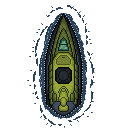
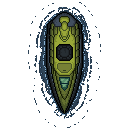
feature(SpriteAnimation.java) init sprite animation

diff --git a/src/main/java/io/github/ololx/sleepwalker/SquarePatrolUnit.java b/src/main/java/io/github/ololx/sleepwalker/SquarePatrolUnit.java
@@ -3,6 +3,8 @@ package io.github.ololx.sleepwalker;
 import io.github.ololx.mooncake.math.VectorXYD;
 
 import java.awt.*;
+import java.util.List;
+import java.util.Map;
 import java.util.logging.Logger;
 
 /**
@@ -19,15 +21,52 @@ public class SquarePatrolUnit implements GameObject {
 
     private VectorXYD direction;
 
-    private final VectorXYD velocity = new VectorXYD(1, 1);
+    private final VectorXYD velocity = new VectorXYD(0.5, 0.5);
 
     private final double rotation = Math.toRadians(-90);
 
-    int frameLimit = 30;
+    int frameLimit = 200;
 
     int currentFrames = 0;
 
     int state = 0;
+
+    List<SpriteAnimation> spriteImages = List.of(
+            new SpriteAnimation(
+                    Map.of(
+                            new SpriteImage("Boat3_water_frame1.png", 0.25, 0.25), 3,
+                            new SpriteImage("Boat3_water_frame2.png", 0.25, 0.25), 3,
+                            new SpriteImage("Boat3_water_frame3.png", 0.25, 0.25), 3,
+                            new SpriteImage("Boat3_water_frame4.png", 0.25, 0.25), 3
+                    )
+            ),
+            new SpriteAnimation(
+                    Map.of(
+                            new SpriteImage("Boat3_water_frame1 2.png", 0.25, 0.25), 3,
+                            new SpriteImage("Boat3_water_frame2 2.png", 0.25, 0.25), 3,
+                            new SpriteImage("Boat3_water_frame3 2.png", 0.25, 0.25), 3,
+                            new SpriteImage("Boat3_water_frame4 2.png", 0.25, 0.25), 3
+                    )
+            ),
+            new SpriteAnimation(
+                    Map.of(
+                            new SpriteImage("Boat3_water_frame1 3.png", 0.25, 0.25), 3,
+                            new SpriteImage("Boat3_water_frame2 3.png", 0.25, 0.25), 3,
+                            new SpriteImage("Boat3_water_frame3 3.png", 0.25, 0.25), 3,
+                            new SpriteImage("Boat3_water_frame4 3.png", 0.25, 0.25), 3
+                    )
+            ),
+            new SpriteAnimation(
+                    Map.of(
+                            new SpriteImage("Boat3_water_frame1 4.png", 0.25, 0.25), 3,
+                            new SpriteImage("Boat3_water_frame2 4.png", 0.25, 0.25), 3,
+                            new SpriteImage("Boat3_water_frame3 4.png", 0.25, 0.25), 3,
+                            new SpriteImage("Boat3_water_frame4 4.png", 0.25, 0.25), 3
+                    )
+            )
+    );
+
+    SpriteAnimation spriteImage = spriteImages.get(0);
 
     public SquarePatrolUnit(double x, double y) {
         this.position = new VectorXYD(x, y);
@@ -38,8 +77,12 @@ public class SquarePatrolUnit implements GameObject {
     public void update() {
         if (++currentFrames >= frameLimit) {
             currentFrames = 0;
-            state++;
 
+            if (++state >= 4) {
+                state = 0;
+            }
+
+            this.spriteImage = this.spriteImages.get(state);
             this.direction = this.direction.rotate(this.rotation);
         }
 
@@ -50,17 +93,19 @@ public class SquarePatrolUnit implements GameObject {
 
     @Override
     public void render(Scene scene) {
-        for (int i = 0; i < Scene.SCENE_WIDTH; i++) {
-            for (int j = 0; j < Scene.SCENE_HEIGHT; j++) {
-                if (i < this.position.getX() - 2 || i > this.position.getX() + 2) {
+        SpriteImage spriteImage = this.spriteImage.getAndNext();
+
+        for (int x = 0; x < spriteImage.getWidth(); x++) {
+            for (int y = 0; y < spriteImage.getHeight(); y++) {
+                if (spriteImage.getEmptyPixel() == spriteImage.getPixel(x, y)) {
                     continue;
                 }
 
-                if (j < this.position.getY() - 2 || j > this.position.getY() + 2) {
-                    continue;
-                }
-
-                scene.pixels[i + j * Scene.SCENE_WIDTH] = Color.GREEN.getRGB();
+                scene.setPixel(
+                        (int) (x + this.position.getX() - spriteImage.getWidth() / 2),
+                        (int) (y + this.position.getY() - spriteImage.getHeight() / 2),
+                        spriteImage.getPixel(x, y)
+                );
             }
         }
     }

diff --git a/src/main/java/io/github/ololx/sleepwalker/UpDownPatrolUnit.java b/src/main/java/io/github/ololx/sleepwalker/UpDownPatrolUnit.java
@@ -6,6 +6,7 @@ import java.awt.*;
 import java.awt.image.BufferStrategy;
 import java.util.ArrayList;
 import java.util.List;
+import java.util.Map;
 import java.util.logging.Logger;
 
 /**
@@ -22,22 +23,36 @@ public class UpDownPatrolUnit implements GameObject {
 
     private VectorXYD direction;
 
-    private final VectorXYD velocity = new VectorXYD(1, 1);
+    private final VectorXYD velocity = new VectorXYD(1, 2);
 
     private final double rotation = Math.toRadians(-180);
 
-    int frameLimit = 100;
+    int frameLimit = 150;
 
     int currentFrames = 0;
 
     int state = 0;
 
-    List<SpriteImage> spriteImages = List.of(
-            new SpriteImage("Boat1_water_frame2.png", 0.25, 0.25),
-            new SpriteImage("Boat1_water_frame1.png", 0.25, 0.25)
+    List<SpriteAnimation> spriteImages = List.of(
+            new SpriteAnimation(
+                    Map.of(
+                            new SpriteImage("Boat1_water_frame5.png", 0.25, 0.25), 2,
+                            new SpriteImage("Boat1_water_frame6.png", 0.25, 0.25), 2,
+                            new SpriteImage("Boat1_water_frame7.png", 0.25, 0.25), 2,
+                            new SpriteImage("Boat1_water_frame8.png", 0.25, 0.25), 2
+                    )
+            ),
+            new SpriteAnimation(
+                    Map.of(
+                            new SpriteImage("Boat1_water_frame1.png", 0.25, 0.25), 2,
+                            new SpriteImage("Boat1_water_frame2.png", 0.25, 0.25), 2,
+                            new SpriteImage("Boat1_water_frame3.png", 0.25, 0.25), 2,
+                            new SpriteImage("Boat1_water_frame4.png", 0.25, 0.25), 2
+                    )
+            )
     );
 
-    SpriteImage spriteImage = spriteImages.get(0);
+    SpriteAnimation spriteImage = spriteImages.get(0);
 
     public UpDownPatrolUnit(double x, double y) {
         this.position = new VectorXYD(x, y);
@@ -50,24 +65,29 @@ public class UpDownPatrolUnit implements GameObject {
             currentFrames = 0;
             state++;
 
+            this.spriteImage = this.spriteImages.get(state % 2 == 0 ? 0 : 1);
             this.direction = this.direction.rotate(this.rotation);
         }
 
         this.position = this.position.add(this.velocity.multiply(direction));
-
-        this.spriteImage = this.spriteImages.get(state % 2 == 0 ? 0 : 1);
 
         currentFrames++;
     }
 
     @Override
     public void render(Scene scene) {
-        for (int x = 0; x < this.spriteImage.getWidth(); x++) {
-            for (int y = 0; y < this.spriteImage.getHeight(); y++) {
+        SpriteImage spriteImage = this.spriteImage.getAndNext();
+
+        for (int x = 0; x < spriteImage.getWidth(); x++) {
+            for (int y = 0; y < spriteImage.getHeight(); y++) {
+                if (spriteImage.getEmptyPixel() == spriteImage.getPixel(x, y)) {
+                    continue;
+                }
+
                 scene.setPixel(
-                        (int) (x + this.position.getX() - this.spriteImage.getWidth() / 2),
-                        (int) (y + this.position.getY() - this.spriteImage.getHeight() / 2),
-                        this.spriteImage.getPixel(x, y)
+                        (int) (x + this.position.getX() - spriteImage.getWidth() / 2),
+                        (int) (y + this.position.getY() - spriteImage.getHeight() / 2),
+                        spriteImage.getPixel(x, y)
                 );
             }
         }

diff --git a/src/main/java/io/github/ololx/sleepwalker/RightLeftPatrolUnit.java b/src/main/java/io/github/ololx/sleepwalker/RightLeftPatrolUnit.java
@@ -3,6 +3,8 @@ package io.github.ololx.sleepwalker;
 import io.github.ololx.mooncake.math.VectorXYD;
 
 import java.awt.*;
+import java.util.List;
+import java.util.Map;
 import java.util.logging.Logger;
 
 /**
@@ -19,15 +21,36 @@ public class RightLeftPatrolUnit implements GameObject {
 
     private VectorXYD direction;
 
-    private final VectorXYD velocity = new VectorXYD(1, 1);
+    private final VectorXYD velocity = new VectorXYD(4, 4);
 
     private final double rotation = Math.toRadians(-180);
 
-    int frameLimit = 100;
+    int frameLimit = 300;
 
     int currentFrames = 0;
 
     int state = 0;
+
+    List<SpriteAnimation> spriteImages = List.of(
+            new SpriteAnimation(
+                    Map.of(
+                            new SpriteImage("Boat4_water_frame1.png", 0.25, 0.25), 1,
+                            new SpriteImage("Boat4_water_frame2.png", 0.25, 0.25), 1,
+                            new SpriteImage("Boat4_water_frame3.png", 0.25, 0.25), 1,
+                            new SpriteImage("Boat4_water_frame4.png", 0.25, 0.25), 1
+                    )
+            ),
+            new SpriteAnimation(
+                    Map.of(
+                            new SpriteImage("Boat4_water_frame5.png", 0.25, 0.25), 1,
+                            new SpriteImage("Boat4_water_frame6.png", 0.25, 0.25), 1,
+                            new SpriteImage("Boat4_water_frame7.png", 0.25, 0.25), 1,
+                            new SpriteImage("Boat4_water_frame8.png", 0.25, 0.25), 1
+                    )
+            )
+    );
+
+    SpriteAnimation spriteImage = spriteImages.get(0);
 
     public RightLeftPatrolUnit(double x, double y) {
         this.position = new VectorXYD(x, y);
@@ -40,6 +63,7 @@ public class RightLeftPatrolUnit implements GameObject {
             currentFrames = 0;
             state++;
 
+            this.spriteImage = this.spriteImages.get(state % 2 == 0 ? 0 : 1);
             this.direction = this.direction.rotate(this.rotation);
         }
 
@@ -50,17 +74,19 @@ public class RightLeftPatrolUnit implements GameObject {
 
     @Override
     public void render(Scene scene) {
-        for (int i = 0; i < Scene.SCENE_WIDTH; i++) {
-            for (int j = 0; j < Scene.SCENE_HEIGHT; j++) {
-                if (i < this.position.getX() - 2 || i > this.position.getX() + 2) {
+        SpriteImage spriteImage = this.spriteImage.getAndNext();
+
+        for (int x = 0; x < spriteImage.getWidth(); x++) {
+            for (int y = 0; y < spriteImage.getHeight(); y++) {
+                if (spriteImage.getEmptyPixel() == spriteImage.getPixel(x, y)) {
                     continue;
                 }
 
-                if (j < this.position.getY() - 2 || j > this.position.getY() + 2) {
-                    continue;
-                }
-
-                scene.pixels[i + j * Scene.SCENE_WIDTH] = Color.CYAN.getRGB();
+                scene.setPixel(
+                        (int) (x + this.position.getX() - spriteImage.getWidth() / 2),
+                        (int) (y + this.position.getY() - spriteImage.getHeight() / 2),
+                        spriteImage.getPixel(x, y)
+                );
             }
         }
     }

diff --git a/src/main/java/io/github/ololx/sleepwalker/SpriteAnimation.java b/src/main/java/io/github/ololx/sleepwalker/SpriteAnimation.java
@@ -1,0 +1,52 @@
+package io.github.ololx.sleepwalker;
+
+import java.util.ArrayList;
+import java.util.List;
+import java.util.Map;
+import java.util.Objects;
+import java.util.concurrent.atomic.AtomicBoolean;
+import java.util.concurrent.atomic.AtomicInteger;
+import java.util.stream.IntStream;
+
+/**
+ * project sleepwalker
+ * created 13.11.2022 19:14
+ *
+ * @author Alexander A. Kropotin
+ */
+public class SpriteAnimation {
+
+    private final List<SpriteImage> sprites = new ArrayList<>();
+
+    private int frame = 0;
+
+    public SpriteAnimation(Map<SpriteImage, Integer> frames) {
+        Objects.requireNonNull(frames).forEach((spriteImage, framesCount) -> {
+            IntStream.range(0, framesCount)
+                    .mapToObj(frameIndex -> spriteImage)
+                    .forEach(this.sprites::add);
+        });
+    }
+
+    public SpriteImage getAndReset() {
+        SpriteImage currentSprite = this.getCurrent();
+        frame = 0;
+
+        return currentSprite;
+    }
+
+    public SpriteImage getAndNext() {
+        SpriteImage currentSprite = this.getCurrent();
+        frame++;
+
+        return currentSprite;
+    }
+
+    private SpriteImage getCurrent() {
+        if (this.frame >= this.sprites.size()) {
+            this.frame = 0;
+        }
+
+        return this.sprites.get(this.frame);
+    }
+}

diff --git a/src/main/java/io/github/ololx/sleepwalker/Sleepwalker.java b/src/main/java/io/github/ololx/sleepwalker/Sleepwalker.java
@@ -25,8 +25,8 @@ public class Sleepwalker {
                     add(new UpDownPatrolUnit(100, 150));
                     add(new SquarePatrolUnit(300, 250));
                     add(new RightLeftPatrolUnit(150, 300));
-                    add(new RoundPatrolUnit(400, 120));
-                    add(new UpDownPatrolUnit(450, 450));
+                    add(new RightLeftPatrolUnit(400, 120));
+                    add(new UpDownPatrolUnit(300, 300));
                 }}
         );
         Game game = new Game(gameLoop);

diff --git a/src/main/java/io/github/ololx/sleepwalker/SpriteImage.java b/src/main/java/io/github/ololx/sleepwalker/SpriteImage.java
@@ -26,6 +26,8 @@ public class SpriteImage {
 
     private int height;
 
+    private final int emptyPixel = 0x0;
+
     public SpriteImage(String imageUri) {
         this(imageUri, 1, 1);
     }
@@ -78,6 +80,10 @@ public class SpriteImage {
 
     public int getHeight() {
         return this.height;
+    }
+
+    public int getEmptyPixel() {
+        return this.emptyPixel;
     }
 
     public int getPixel(int x, int y) {

diff --git a/src/main/java/io/github/ololx/sleepwalker/Scene.java b/src/main/java/io/github/ololx/sleepwalker/Scene.java
@@ -88,6 +88,8 @@ public class Scene extends JFrame {
     public void setPixel(int x, int y, int color) {
         if (x + y * SCENE_WIDTH >= this.pixels.length) {
             return;
+        } else if (x + y * SCENE_WIDTH < 0) {
+            return;
         }
 
         this.pixels[x + y * SCENE_WIDTH] = color;
